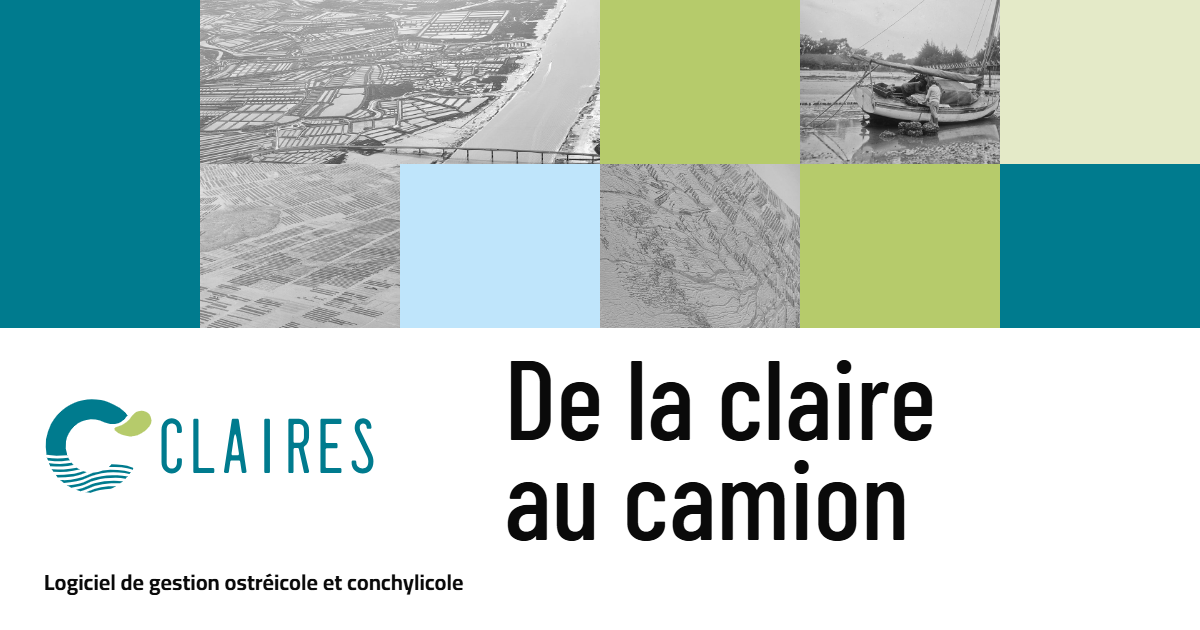
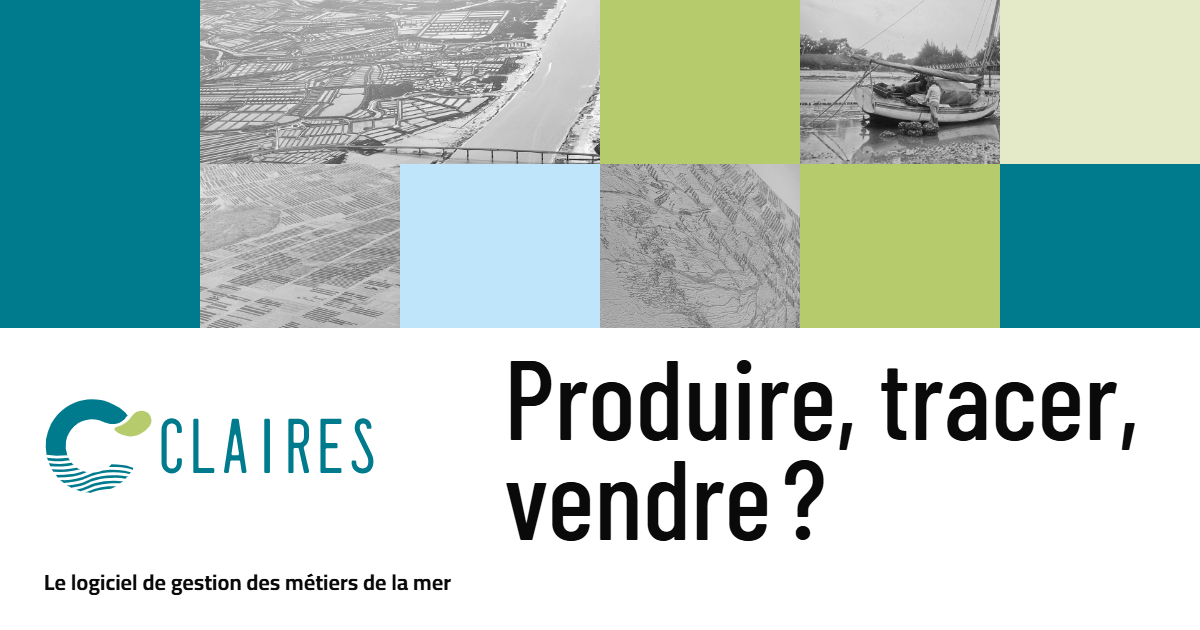
feat(copy): image de partage et signature « Produire, tracer, vendre ? » (COPY-07)
L'image de partage et son texte alternatif, le pied de page et la page clients quittent « De la
claire au camion ». Derniers « camion » retirés du parcours, du guide CERFA et de l'accueil.
L'outil d'images charge aussi la police Cairo avant de dessiner.

Changed region(s): [[0.4008, 0.573, 0.9558, 0.8746], [0.0308, 0.9048, 0.4008, 0.9651]]

diff --git a/tools/images.html b/tools/images.html
@@ -9,7 +9,7 @@
 </style>
 </head>
 <body>
-<p class="fonts-warm" style="font-family:'Barlow Condensed';font-weight:500">De la claire au camion</p>
+<p class="fonts-warm" style="font-family:'Barlow Condensed';font-weight:500">Produire, tracer, vendre ?</p>
 <canvas id="og" width="1200" height="630"></canvas>
 <script>
 const charger = (src) => new Promise((ok, ko) => { const i = new Image(); i.onload = () => ok(i); i.onerror = ko; i.src = src; });
@@ -24,6 +24,7 @@ async function envoyer(canvas, nom) {
 }
 window.generer = async () => {
   await document.fonts.load('500 120px "Barlow Condensed"');
+  await document.fonts.load('700 22px "Cairo"');
   await document.fonts.ready;
   const PAON = '#007b8e', TILLEUL = '#b6cb6b', EAU = '#e4eac8', CIEL = '#bfe5fb';
   const [claires, tables, arcachon, sillons, logo, icone] = await Promise.all([
@@ -43,9 +44,9 @@ window.generer = async () => {
   const lw = 330, lh = lw * logo.naturalHeight / logo.naturalWidth;
   ctx.drawImage(logo, 44, 392, lw, lh);
   ctx.fillStyle = '#0a0a0a'; ctx.font = '500 112px "Barlow Condensed"'; ctx.textBaseline = 'alphabetic';
-  ctx.fillText('De la claire', 504, 440); ctx.fillText('au camion', 504, 540);
+  ctx.fillText('Produire, tracer,', 504, 440); ctx.fillText('vendre ?', 504, 540);
   ctx.font = '700 22px "Cairo"'; ctx.fillStyle = '#0a0a0a';
-  ctx.fillText('Logiciel de gestion ostréicole et conchylicole', 44, 590);
+  ctx.fillText('Le logiciel de gestion des métiers de la mer', 44, 590);
   const resultats = [await envoyer(c, 'assets/img/og.png')];
   // icônes carrées (charte p. 14) : favicon, écran d’accueil, manifeste
   for (const [taille, nom] of [[32, 'favicon-32.png'], [180, 'apple-touch-icon.png'], [192, 'assets/img/icone-192.png'], [512, 'assets/img/icone-512.png']]) {

diff --git a/src/content/guides/cerfa-15063.md b/src/content/guides/cerfa-15063.md
@@ -56,7 +56,7 @@ Comme pour l’étiquette sanitaire, la plupart de ces erreurs viennent d’une 
 
 ## Avec C’Claires
 
-C’Claires préremplit le CERFA 15063 depuis le bon de livraison : espèce, quantité, poids, zone et lot sont repris de la pièce, sans ressaisie. Le classement de la zone suit le lot depuis sa réception, et il est vérifié avant le départ du camion.
+C’Claires préremplit le CERFA 15063 depuis le bon de livraison : espèce, quantité, poids, zone et lot sont repris de la pièce, sans ressaisie. Le classement de la zone suit le lot depuis sa réception, et il est vérifié avant l’expédition.
 
 ## Textes de référence
 
